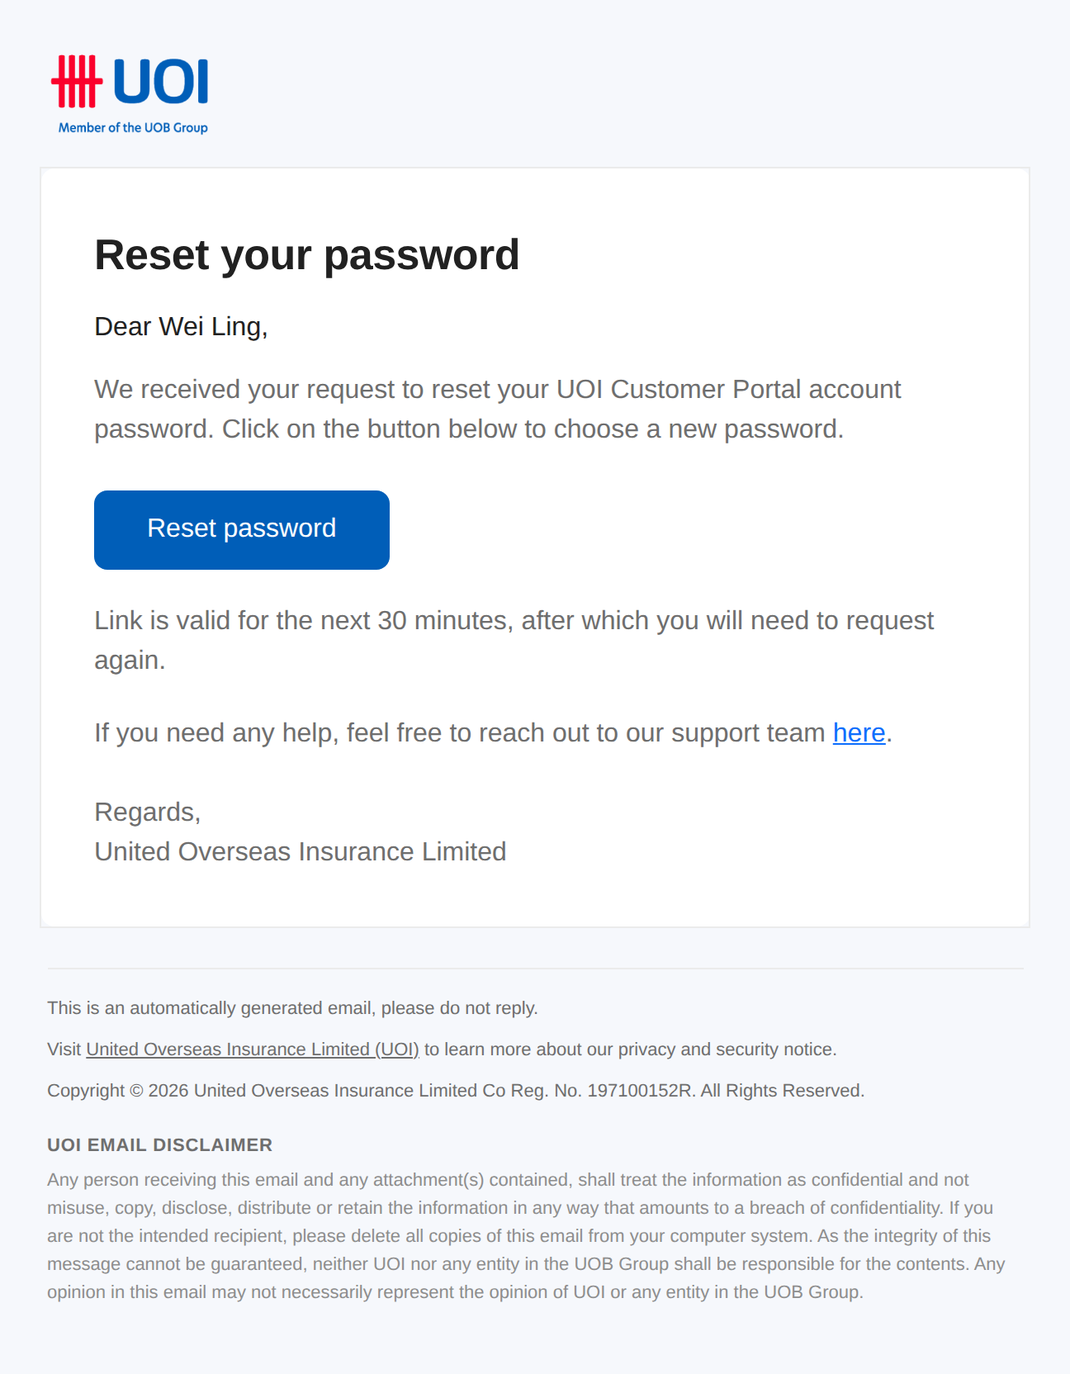
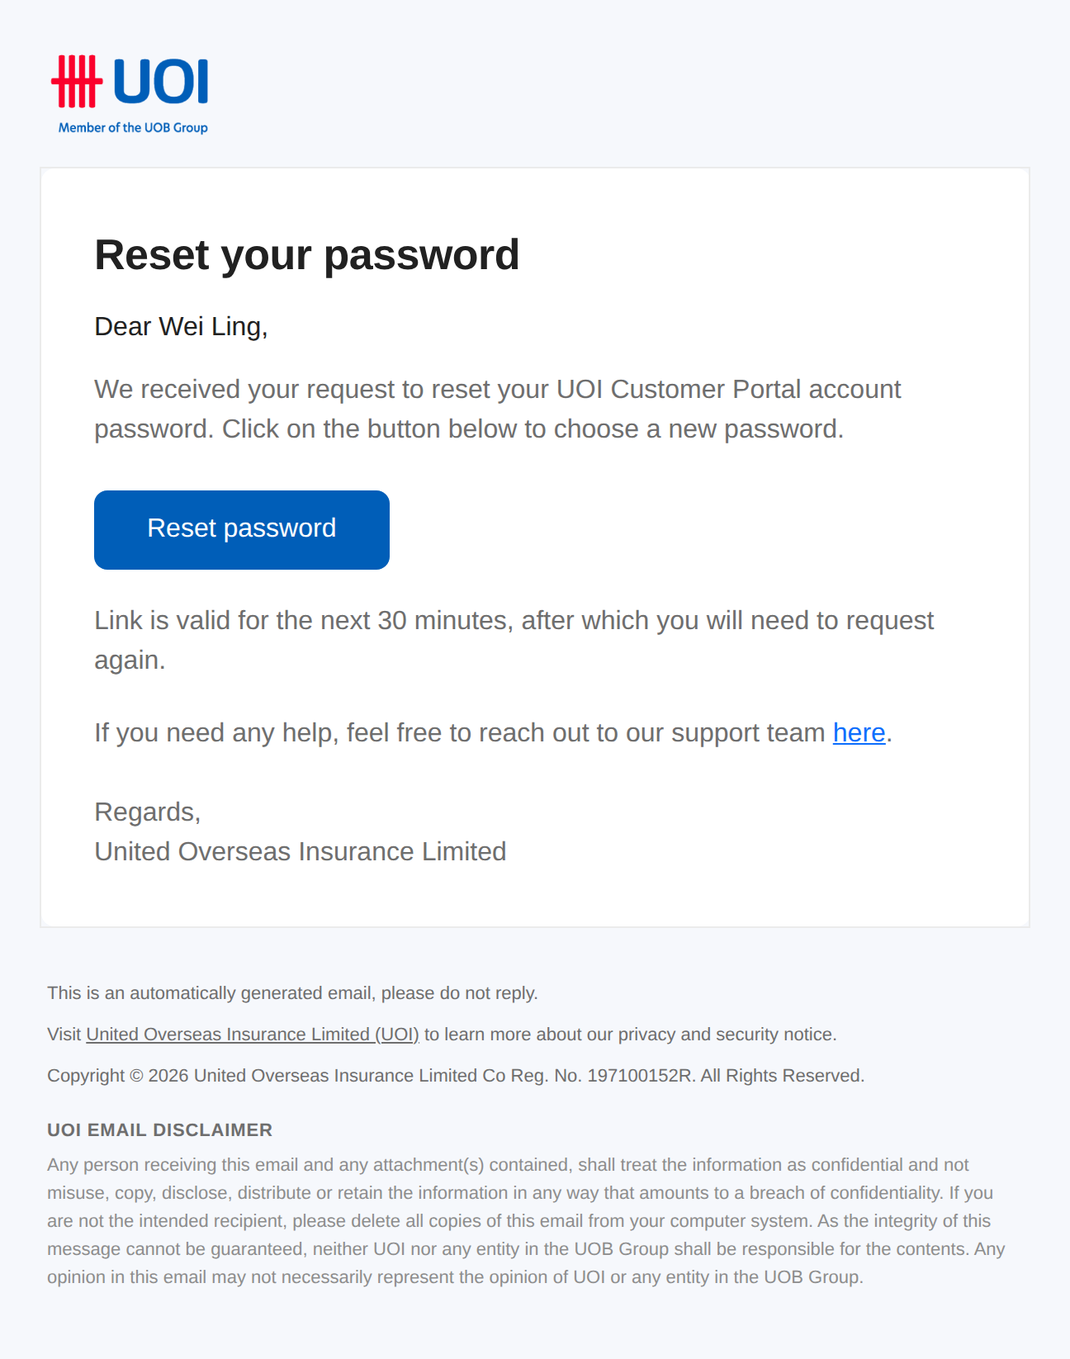
Drop the rule between the card and the legal block
The hairline above the legal block is removed on all six. Space alone separates
the message from the legal text now, and the gap grows from 24px to 32px to
carry that separation on its own.

The variant comparison page drops the CSS transform that scaled each email to
fit three columns; it was soft and awkward at 0.72. Each variant now renders at
its true width, one per row, with the notes in a rail beside it.

Claude-Session: https://claude.ai/code/session_01Ugy4CsjXngQbuZH3dm3bHN

diff --git a/emails/preview.html b/emails/preview.html
@@ -360,11 +360,10 @@
           <!-- Legal. Outside the card: chrome, not message. 11px is the smallest
                type in the email, per the brief. -->
           <tr>
-            <td class=&quot;pad&quot; style=&quot;padding:24px 4px 0 4px;&quot;>
+            <td class=&quot;pad&quot; style=&quot;padding:32px 4px 0 4px;&quot;>
               <table role=&quot;presentation&quot; width=&quot;100%&quot; cellpadding=&quot;0&quot; cellspacing=&quot;0&quot; border=&quot;0&quot;>
                 <tr>
-                  <td style=&quot;border-top:1px solid #EBEBEB; padding-top:16px;
-                             font-family:'Noto Sans', -apple-system, BlinkMacSystemFont, 'Segoe UI', Arial, Helvetica, sans-serif; font-size:11px; line-height:1.55;
+                  <td style=&quot;font-family:'Noto Sans', -apple-system, BlinkMacSystemFont, 'Segoe UI', Arial, Helvetica, sans-serif; font-size:11px; line-height:1.55;
                              color:#6E6E6E;&quot;>
                     <p style=&quot;margin:0;&quot;>This is an automatically generated email, please do not reply.</p>
                     <p style=&quot;margin:8px 0 0 0;&quot;>Visit
@@ -533,11 +532,10 @@
           <!-- Legal. Outside the card: chrome, not message. 11px is the smallest
                type in the email, per the brief. -->
           <tr>
-            <td class=&quot;pad&quot; style=&quot;padding:24px 4px 0 4px;&quot;>
+            <td class=&quot;pad&quot; style=&quot;padding:32px 4px 0 4px;&quot;>
               <table role=&quot;presentation&quot; width=&quot;100%&quot; cellpadding=&quot;0&quot; cellspacing=&quot;0&quot; border=&quot;0&quot;>
                 <tr>
-                  <td style=&quot;border-top:1px solid #EBEBEB; padding-top:16px;
-                             font-family:'Noto Sans', -apple-system, BlinkMacSystemFont, 'Segoe UI', Arial, Helvetica, sans-serif; font-size:11px; line-height:1.55;
+                  <td style=&quot;font-family:'Noto Sans', -apple-system, BlinkMacSystemFont, 'Segoe UI', Arial, Helvetica, sans-serif; font-size:11px; line-height:1.55;
                              color:#6E6E6E;&quot;>
                     <p style=&quot;margin:0;&quot;>This is an automatically generated email, please do not reply.</p>
                     <p style=&quot;margin:8px 0 0 0;&quot;>Visit
@@ -705,11 +703,10 @@
           <!-- Legal. Outside the card: chrome, not message. 11px is the smallest
                type in the email, per the brief. -->
           <tr>
-            <td class=&quot;pad&quot; style=&quot;padding:24px 4px 0 4px;&quot;>
+            <td class=&quot;pad&quot; style=&quot;padding:32px 4px 0 4px;&quot;>
               <table role=&quot;presentation&quot; width=&quot;100%&quot; cellpadding=&quot;0&quot; cellspacing=&quot;0&quot; border=&quot;0&quot;>
                 <tr>
-                  <td style=&quot;border-top:1px solid #EBEBEB; padding-top:16px;
-                             font-family:'Noto Sans', -apple-system, BlinkMacSystemFont, 'Segoe UI', Arial, Helvetica, sans-serif; font-size:11px; line-height:1.55;
+                  <td style=&quot;font-family:'Noto Sans', -apple-system, BlinkMacSystemFont, 'Segoe UI', Arial, Helvetica, sans-serif; font-size:11px; line-height:1.55;
                              color:#6E6E6E;&quot;>
                     <p style=&quot;margin:0;&quot;>This is an automatically generated email, please do not reply.</p>
                     <p style=&quot;margin:8px 0 0 0;&quot;>Visit
@@ -877,11 +874,10 @@
           <!-- Legal. Outside the card: chrome, not message. 11px is the smallest
                type in the email, per the brief. -->
           <tr>
-            <td class=&quot;pad&quot; style=&quot;padding:24px 4px 0 4px;&quot;>
+            <td class=&quot;pad&quot; style=&quot;padding:32px 4px 0 4px;&quot;>
               <table role=&quot;presentation&quot; width=&quot;100%&quot; cellpadding=&quot;0&quot; cellspacing=&quot;0&quot; border=&quot;0&quot;>
                 <tr>
-                  <td style=&quot;border-top:1px solid #EBEBEB; padding-top:16px;
-                             font-family:'Noto Sans', -apple-system, BlinkMacSystemFont, 'Segoe UI', Arial, Helvetica, sans-serif; font-size:11px; line-height:1.55;
+                  <td style=&quot;font-family:'Noto Sans', -apple-system, BlinkMacSystemFont, 'Segoe UI', Arial, Helvetica, sans-serif; font-size:11px; line-height:1.55;
                              color:#6E6E6E;&quot;>
                     <p style=&quot;margin:0;&quot;>This is an automatically generated email, please do not reply.</p>
                     <p style=&quot;margin:8px 0 0 0;&quot;>Visit
@@ -1050,11 +1046,10 @@
           <!-- Legal. Outside the card: chrome, not message. 11px is the smallest
                type in the email, per the brief. -->
           <tr>
-            <td class=&quot;pad&quot; style=&quot;padding:24px 4px 0 4px;&quot;>
+            <td class=&quot;pad&quot; style=&quot;padding:32px 4px 0 4px;&quot;>
               <table role=&quot;presentation&quot; width=&quot;100%&quot; cellpadding=&quot;0&quot; cellspacing=&quot;0&quot; border=&quot;0&quot;>
                 <tr>
-                  <td style=&quot;border-top:1px solid #EBEBEB; padding-top:16px;
-                             font-family:'Noto Sans', -apple-system, BlinkMacSystemFont, 'Segoe UI', Arial, Helvetica, sans-serif; font-size:11px; line-height:1.55;
+                  <td style=&quot;font-family:'Noto Sans', -apple-system, BlinkMacSystemFont, 'Segoe UI', Arial, Helvetica, sans-serif; font-size:11px; line-height:1.55;
                              color:#6E6E6E;&quot;>
                     <p style=&quot;margin:0;&quot;>This is an automatically generated email, please do not reply.</p>
                     <p style=&quot;margin:8px 0 0 0;&quot;>Visit
@@ -1216,11 +1211,10 @@
           <!-- Legal. Outside the card: chrome, not message. 11px is the smallest
                type in the email, per the brief. -->
           <tr>
-            <td class=&quot;pad&quot; style=&quot;padding:24px 4px 0 4px;&quot;>
+            <td class=&quot;pad&quot; style=&quot;padding:32px 4px 0 4px;&quot;>
               <table role=&quot;presentation&quot; width=&quot;100%&quot; cellpadding=&quot;0&quot; cellspacing=&quot;0&quot; border=&quot;0&quot;>
                 <tr>
-                  <td style=&quot;border-top:1px solid #EBEBEB; padding-top:16px;
-                             font-family:'Noto Sans', -apple-system, BlinkMacSystemFont, 'Segoe UI', Arial, Helvetica, sans-serif; font-size:11px; line-height:1.55;
+                  <td style=&quot;font-family:'Noto Sans', -apple-system, BlinkMacSystemFont, 'Segoe UI', Arial, Helvetica, sans-serif; font-size:11px; line-height:1.55;
                              color:#6E6E6E;&quot;>
                     <p style=&quot;margin:0;&quot;>This is an automatically generated email, please do not reply.</p>
                     <p style=&quot;margin:8px 0 0 0;&quot;>Visit

diff --git a/emails/variants/index.html b/emails/variants/index.html
@@ -40,10 +40,15 @@
   .diag li::before{content:"";position:absolute;left:0;top:.62em;width:6px;height:6px;
                    border-radius:50%;background:var(--accent)}
   .diag strong{color:var(--ink);font-weight:600}
-  .grid{padding:56px 0 40px;display:grid;gap:28px;
-        grid-template-columns:repeat(auto-fit,minmax(430px,1fr))}
+  .grid{padding:56px 0 40px;display:grid;gap:28px}
+  .v{display:grid;grid-template-columns:minmax(280px,360px) 1fr}
+  .v header{border-right:1px solid var(--hairline);border-bottom:0}
+  @media (max-width:900px){
+    .v{grid-template-columns:1fr}
+    .v header{border-right:0;border-bottom:1px solid var(--hairline)}
+  }
   .v{background:var(--surface);border:1px solid var(--hairline);border-radius:12px;
-     overflow:hidden;display:flex;flex-direction:column}
+     overflow:hidden}
   .v header{padding:22px 24px;border-bottom:1px solid var(--hairline)}
   .key{display:inline-block;font-family:var(--mono);font-size:12px;font-weight:500;
        color:var(--accent);border:1px solid var(--accent);border-radius:999px;
@@ -54,15 +59,9 @@
            border-left:3px solid var(--accent);padding-left:12px}
   /* The iframe renders at a true 640px and is scaled to fit the column, so all
      three show the desktop layout rather than reflowing to mobile widths. */
-  .frame{background:var(--viewport);height:698px;overflow:hidden;
-         display:flex;justify-content:center}
-  .clip{width:461px;height:698px;overflow:hidden}
-  iframe{width:640px;height:970px;border:0;display:block;
-         transform:scale(.72);transform-origin:top left}
-  @media (max-width:900px){
-    .frame,.clip{height:auto;width:100%;overflow:visible}
-    iframe{width:100%;height:1010px;transform:none}
-  }
+  .frame{background:var(--viewport)}
+  .clip{width:100%}
+  iframe{width:100%;height:920px;border:0;display:block}
   footer.end{padding:40px 0 80px;color:var(--faint);font-size:13px;
              border-top:1px solid var(--hairline)}
   a{color:var(--accent)}
@@ -234,11 +233,10 @@
           <!-- Legal. Outside the card: chrome, not message. 11px is the smallest
                type in the email, per the brief. -->
           <tr>
-            <td class=&quot;pad&quot; style=&quot;padding:24px 4px 0 4px;&quot;>
+            <td class=&quot;pad&quot; style=&quot;padding:32px 4px 0 4px;&quot;>
               <table role=&quot;presentation&quot; width=&quot;100%&quot; cellpadding=&quot;0&quot; cellspacing=&quot;0&quot; border=&quot;0&quot;>
                 <tr>
-                  <td style=&quot;border-top:1px solid #EBEBEB; padding-top:16px;
-                             font-family:'Noto Sans', -apple-system, BlinkMacSystemFont, 'Segoe UI', Arial, Helvetica, sans-serif; font-size:11px; line-height:1.55;
+                  <td style=&quot;font-family:'Noto Sans', -apple-system, BlinkMacSystemFont, 'Segoe UI', Arial, Helvetica, sans-serif; font-size:11px; line-height:1.55;
                              color:#6E6E6E;&quot;>
                     <p style=&quot;margin:0;&quot;>This is an automatically generated email, please do not reply.</p>
                     <p style=&quot;margin:8px 0 0 0;&quot;>Visit
@@ -406,11 +404,10 @@
           <!-- Legal. Outside the card: chrome, not message. 11px is the smallest
                type in the email, per the brief. -->
           <tr>
-            <td class=&quot;pad&quot; style=&quot;padding:24px 4px 0 4px;&quot;>
+            <td class=&quot;pad&quot; style=&quot;padding:32px 4px 0 4px;&quot;>
               <table role=&quot;presentation&quot; width=&quot;100%&quot; cellpadding=&quot;0&quot; cellspacing=&quot;0&quot; border=&quot;0&quot;>
                 <tr>
-                  <td style=&quot;border-top:1px solid #EBEBEB; padding-top:16px;
-                             font-family:'Noto Sans', -apple-system, BlinkMacSystemFont, 'Segoe UI', Arial, Helvetica, sans-serif; font-size:11px; line-height:1.55;
+                  <td style=&quot;font-family:'Noto Sans', -apple-system, BlinkMacSystemFont, 'Segoe UI', Arial, Helvetica, sans-serif; font-size:11px; line-height:1.55;
                              color:#6E6E6E;&quot;>
                     <p style=&quot;margin:0;&quot;>This is an automatically generated email, please do not reply.</p>
                     <p style=&quot;margin:8px 0 0 0;&quot;>Visit
@@ -568,11 +565,10 @@
           <!-- Legal. Outside the card: chrome, not message. 11px is the smallest
                type in the email, per the brief. -->
           <tr>
-            <td class=&quot;pad&quot; style=&quot;padding:24px 4px 0 4px;&quot;>
+            <td class=&quot;pad&quot; style=&quot;padding:32px 4px 0 4px;&quot;>
               <table role=&quot;presentation&quot; width=&quot;100%&quot; cellpadding=&quot;0&quot; cellspacing=&quot;0&quot; border=&quot;0&quot;>
                 <tr>
-                  <td style=&quot;border-top:1px solid #EBEBEB; padding-top:16px;
-                             font-family:'Noto Sans', -apple-system, BlinkMacSystemFont, 'Segoe UI', Arial, Helvetica, sans-serif; font-size:11px; line-height:1.55;
+                  <td style=&quot;font-family:'Noto Sans', -apple-system, BlinkMacSystemFont, 'Segoe UI', Arial, Helvetica, sans-serif; font-size:11px; line-height:1.55;
                              color:#6E6E6E;&quot;>
                     <p style=&quot;margin:0;&quot;>This is an automatically generated email, please do not reply.</p>
                     <p style=&quot;margin:8px 0 0 0;&quot;>Visit

diff --git a/emails/01-login-otp.html b/emails/01-login-otp.html
@@ -119,11 +119,10 @@
           <!-- Legal. Outside the card: chrome, not message. 11px is the smallest
                type in the email, per the brief. -->
           <tr>
-            <td class="pad" style="padding:24px 4px 0 4px;">
+            <td class="pad" style="padding:32px 4px 0 4px;">
               <table role="presentation" width="100%" cellpadding="0" cellspacing="0" border="0">
                 <tr>
-                  <td style="border-top:1px solid #EBEBEB; padding-top:16px;
-                             font-family:'Noto Sans', -apple-system, BlinkMacSystemFont, 'Segoe UI', Arial, Helvetica, sans-serif; font-size:11px; line-height:1.55;
+                  <td style="font-family:'Noto Sans', -apple-system, BlinkMacSystemFont, 'Segoe UI', Arial, Helvetica, sans-serif; font-size:11px; line-height:1.55;
                              color:#6E6E6E;">
                     <p style="margin:0;">This is an automatically generated email, please do not reply.</p>
                     <p style="margin:8px 0 0 0;">Visit

diff --git a/emails/02-forgot-password-reset.html b/emails/02-forgot-password-reset.html
@@ -120,11 +120,10 @@
           <!-- Legal. Outside the card: chrome, not message. 11px is the smallest
                type in the email, per the brief. -->
           <tr>
-            <td class="pad" style="padding:24px 4px 0 4px;">
+            <td class="pad" style="padding:32px 4px 0 4px;">
               <table role="presentation" width="100%" cellpadding="0" cellspacing="0" border="0">
                 <tr>
-                  <td style="border-top:1px solid #EBEBEB; padding-top:16px;
-                             font-family:'Noto Sans', -apple-system, BlinkMacSystemFont, 'Segoe UI', Arial, Helvetica, sans-serif; font-size:11px; line-height:1.55;
+                  <td style="font-family:'Noto Sans', -apple-system, BlinkMacSystemFont, 'Segoe UI', Arial, Helvetica, sans-serif; font-size:11px; line-height:1.55;
                              color:#6E6E6E;">
                     <p style="margin:0;">This is an automatically generated email, please do not reply.</p>
                     <p style="margin:8px 0 0 0;">Visit

diff --git a/emails/03-registration-otp.html b/emails/03-registration-otp.html
@@ -119,11 +119,10 @@
           <!-- Legal. Outside the card: chrome, not message. 11px is the smallest
                type in the email, per the brief. -->
           <tr>
-            <td class="pad" style="padding:24px 4px 0 4px;">
+            <td class="pad" style="padding:32px 4px 0 4px;">
               <table role="presentation" width="100%" cellpadding="0" cellspacing="0" border="0">
                 <tr>
-                  <td style="border-top:1px solid #EBEBEB; padding-top:16px;
-                             font-family:'Noto Sans', -apple-system, BlinkMacSystemFont, 'Segoe UI', Arial, Helvetica, sans-serif; font-size:11px; line-height:1.55;
+                  <td style="font-family:'Noto Sans', -apple-system, BlinkMacSystemFont, 'Segoe UI', Arial, Helvetica, sans-serif; font-size:11px; line-height:1.55;
                              color:#6E6E6E;">
                     <p style="margin:0;">This is an automatically generated email, please do not reply.</p>
                     <p style="margin:8px 0 0 0;">Visit

diff --git a/emails/04-change-login-id-otp.html b/emails/04-change-login-id-otp.html
@@ -119,11 +119,10 @@
           <!-- Legal. Outside the card: chrome, not message. 11px is the smallest
                type in the email, per the brief. -->
           <tr>
-            <td class="pad" style="padding:24px 4px 0 4px;">
+            <td class="pad" style="padding:32px 4px 0 4px;">
               <table role="presentation" width="100%" cellpadding="0" cellspacing="0" border="0">
                 <tr>
-                  <td style="border-top:1px solid #EBEBEB; padding-top:16px;
-                             font-family:'Noto Sans', -apple-system, BlinkMacSystemFont, 'Segoe UI', Arial, Helvetica, sans-serif; font-size:11px; line-height:1.55;
+                  <td style="font-family:'Noto Sans', -apple-system, BlinkMacSystemFont, 'Segoe UI', Arial, Helvetica, sans-serif; font-size:11px; line-height:1.55;
                              color:#6E6E6E;">
                     <p style="margin:0;">This is an automatically generated email, please do not reply.</p>
                     <p style="margin:8px 0 0 0;">Visit

diff --git a/emails/05-welcome.html b/emails/05-welcome.html
@@ -120,11 +120,10 @@
           <!-- Legal. Outside the card: chrome, not message. 11px is the smallest
                type in the email, per the brief. -->
           <tr>
-            <td class="pad" style="padding:24px 4px 0 4px;">
+            <td class="pad" style="padding:32px 4px 0 4px;">
               <table role="presentation" width="100%" cellpadding="0" cellspacing="0" border="0">
                 <tr>
-                  <td style="border-top:1px solid #EBEBEB; padding-top:16px;
-                             font-family:'Noto Sans', -apple-system, BlinkMacSystemFont, 'Segoe UI', Arial, Helvetica, sans-serif; font-size:11px; line-height:1.55;
+                  <td style="font-family:'Noto Sans', -apple-system, BlinkMacSystemFont, 'Segoe UI', Arial, Helvetica, sans-serif; font-size:11px; line-height:1.55;
                              color:#6E6E6E;">
                     <p style="margin:0;">This is an automatically generated email, please do not reply.</p>
                     <p style="margin:8px 0 0 0;">Visit

diff --git a/emails/06-inactivity-signin.html b/emails/06-inactivity-signin.html
@@ -113,11 +113,10 @@
           <!-- Legal. Outside the card: chrome, not message. 11px is the smallest
                type in the email, per the brief. -->
           <tr>
-            <td class="pad" style="padding:24px 4px 0 4px;">
+            <td class="pad" style="padding:32px 4px 0 4px;">
               <table role="presentation" width="100%" cellpadding="0" cellspacing="0" border="0">
                 <tr>
-                  <td style="border-top:1px solid #EBEBEB; padding-top:16px;
-                             font-family:'Noto Sans', -apple-system, BlinkMacSystemFont, 'Segoe UI', Arial, Helvetica, sans-serif; font-size:11px; line-height:1.55;
+                  <td style="font-family:'Noto Sans', -apple-system, BlinkMacSystemFont, 'Segoe UI', Arial, Helvetica, sans-serif; font-size:11px; line-height:1.55;
                              color:#6E6E6E;">
                     <p style="margin:0;">This is an automatically generated email, please do not reply.</p>
                     <p style="margin:8px 0 0 0;">Visit

diff --git a/emails/variants/variant-a.html b/emails/variants/variant-a.html
@@ -123,11 +123,10 @@
           <!-- Legal. Outside the card: chrome, not message. 11px is the smallest
                type in the email, per the brief. -->
           <tr>
-            <td class="pad" style="padding:24px 4px 0 4px;">
+            <td class="pad" style="padding:32px 4px 0 4px;">
               <table role="presentation" width="100%" cellpadding="0" cellspacing="0" border="0">
                 <tr>
-                  <td style="border-top:1px solid #EBEBEB; padding-top:16px;
-                             font-family:'Noto Sans', -apple-system, BlinkMacSystemFont, 'Segoe UI', Arial, Helvetica, sans-serif; font-size:11px; line-height:1.55;
+                  <td style="font-family:'Noto Sans', -apple-system, BlinkMacSystemFont, 'Segoe UI', Arial, Helvetica, sans-serif; font-size:11px; line-height:1.55;
                              color:#6E6E6E;">
                     <p style="margin:0;">This is an automatically generated email, please do not reply.</p>
                     <p style="margin:8px 0 0 0;">Visit

diff --git a/emails/variants/variant-b.html b/emails/variants/variant-b.html
@@ -125,11 +125,10 @@
           <!-- Legal. Outside the card: chrome, not message. 11px is the smallest
                type in the email, per the brief. -->
           <tr>
-            <td class="pad" style="padding:24px 4px 0 4px;">
+            <td class="pad" style="padding:32px 4px 0 4px;">
               <table role="presentation" width="100%" cellpadding="0" cellspacing="0" border="0">
                 <tr>
-                  <td style="border-top:1px solid #EBEBEB; padding-top:16px;
-                             font-family:'Noto Sans', -apple-system, BlinkMacSystemFont, 'Segoe UI', Arial, Helvetica, sans-serif; font-size:11px; line-height:1.55;
+                  <td style="font-family:'Noto Sans', -apple-system, BlinkMacSystemFont, 'Segoe UI', Arial, Helvetica, sans-serif; font-size:11px; line-height:1.55;
                              color:#6E6E6E;">
                     <p style="margin:0;">This is an automatically generated email, please do not reply.</p>
                     <p style="margin:8px 0 0 0;">Visit

diff --git a/emails/variants/variant-c.html b/emails/variants/variant-c.html
@@ -115,11 +115,10 @@
           <!-- Legal. Outside the card: chrome, not message. 11px is the smallest
                type in the email, per the brief. -->
           <tr>
-            <td class="pad" style="padding:24px 4px 0 4px;">
+            <td class="pad" style="padding:32px 4px 0 4px;">
               <table role="presentation" width="100%" cellpadding="0" cellspacing="0" border="0">
                 <tr>
-                  <td style="border-top:1px solid #EBEBEB; padding-top:16px;
-                             font-family:'Noto Sans', -apple-system, BlinkMacSystemFont, 'Segoe UI', Arial, Helvetica, sans-serif; font-size:11px; line-height:1.55;
+                  <td style="font-family:'Noto Sans', -apple-system, BlinkMacSystemFont, 'Segoe UI', Arial, Helvetica, sans-serif; font-size:11px; line-height:1.55;
                              color:#6E6E6E;">
                     <p style="margin:0;">This is an automatically generated email, please do not reply.</p>
                     <p style="margin:8px 0 0 0;">Visit

diff --git a/emails/variants.py b/emails/variants.py
@@ -220,10 +220,15 @@ def build_index():
   .diag li::before{{content:"";position:absolute;left:0;top:.62em;width:6px;height:6px;
                    border-radius:50%;background:var(--accent)}}
   .diag strong{{color:var(--ink);font-weight:600}}
-  .grid{{padding:56px 0 40px;display:grid;gap:28px;
-        grid-template-columns:repeat(auto-fit,minmax(430px,1fr))}}
+  .grid{{padding:56px 0 40px;display:grid;gap:28px}}
+  .v{{display:grid;grid-template-columns:minmax(280px,360px) 1fr}}
+  .v header{{border-right:1px solid var(--hairline);border-bottom:0}}
+  @media (max-width:900px){{
+    .v{{grid-template-columns:1fr}}
+    .v header{{border-right:0;border-bottom:1px solid var(--hairline)}}
+  }}
   .v{{background:var(--surface);border:1px solid var(--hairline);border-radius:12px;
-     overflow:hidden;display:flex;flex-direction:column}}
+     overflow:hidden}}
   .v header{{padding:22px 24px;border-bottom:1px solid var(--hairline)}}
   .key{{display:inline-block;font-family:var(--mono);font-size:12px;font-weight:500;
        color:var(--accent);border:1px solid var(--accent);border-radius:999px;
@@ -234,15 +239,9 @@ def build_index():
            border-left:3px solid var(--accent);padding-left:12px}}
   /* The iframe renders at a true 640px and is scaled to fit the column, so all
      three show the desktop layout rather than reflowing to mobile widths. */
-  .frame{{background:var(--viewport);height:698px;overflow:hidden;
-         display:flex;justify-content:center}}
-  .clip{{width:461px;height:698px;overflow:hidden}}
-  iframe{{width:640px;height:970px;border:0;display:block;
-         transform:scale(.72);transform-origin:top left}}
-  @media (max-width:900px){{
-    .frame,.clip{{height:auto;width:100%;overflow:visible}}
-    iframe{{width:100%;height:1010px;transform:none}}
-  }}
+  .frame{{background:var(--viewport)}}
+  .clip{{width:100%}}
+  iframe{{width:100%;height:920px;border:0;display:block}}
   footer.end{{padding:40px 0 80px;color:var(--faint);font-size:13px;
              border-top:1px solid var(--hairline)}}
   a{{color:var(--accent)}}
